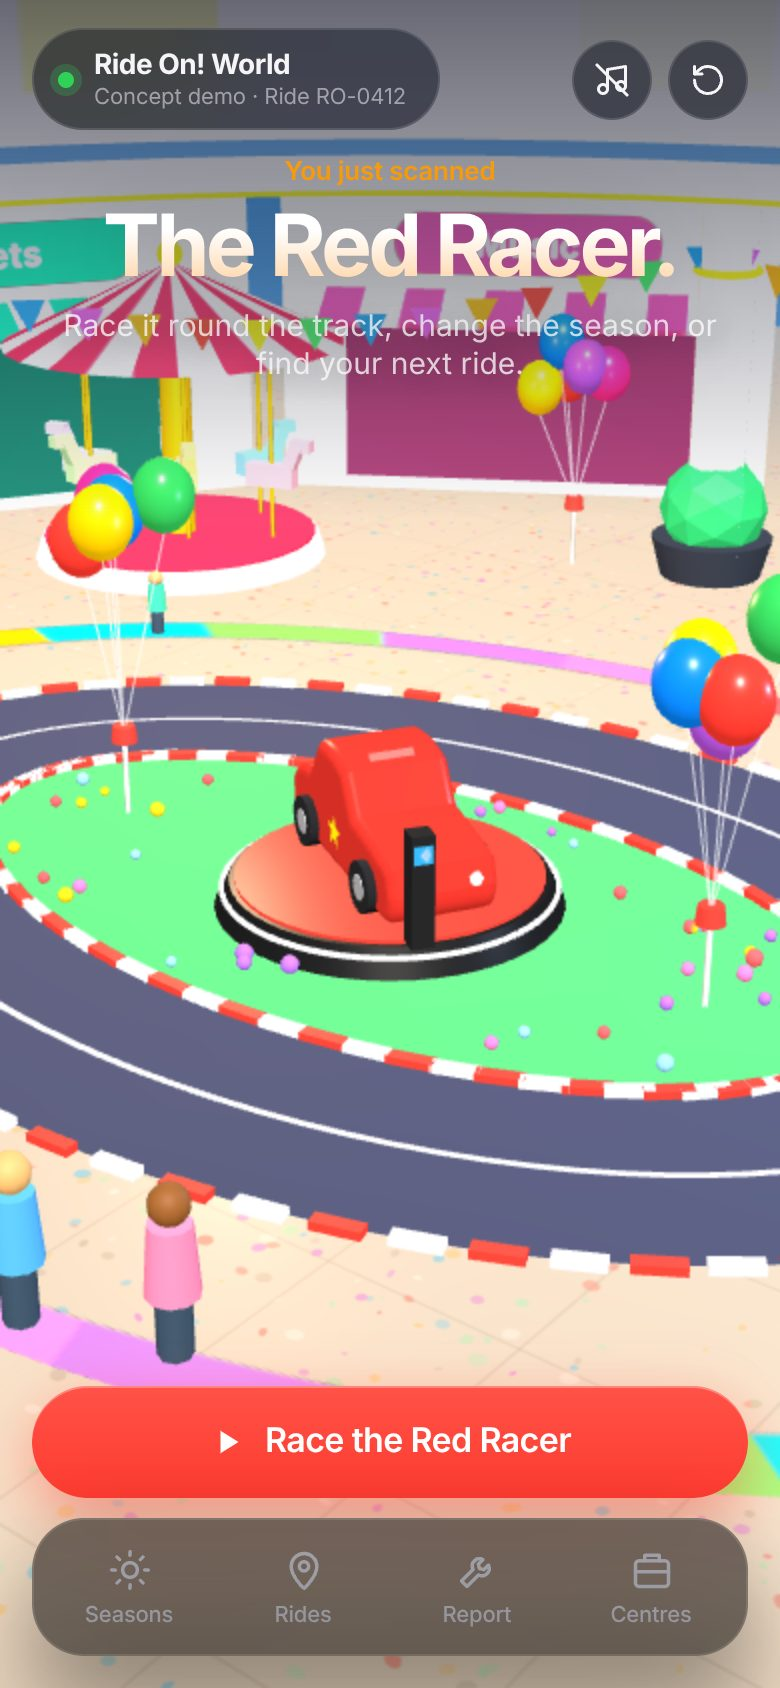
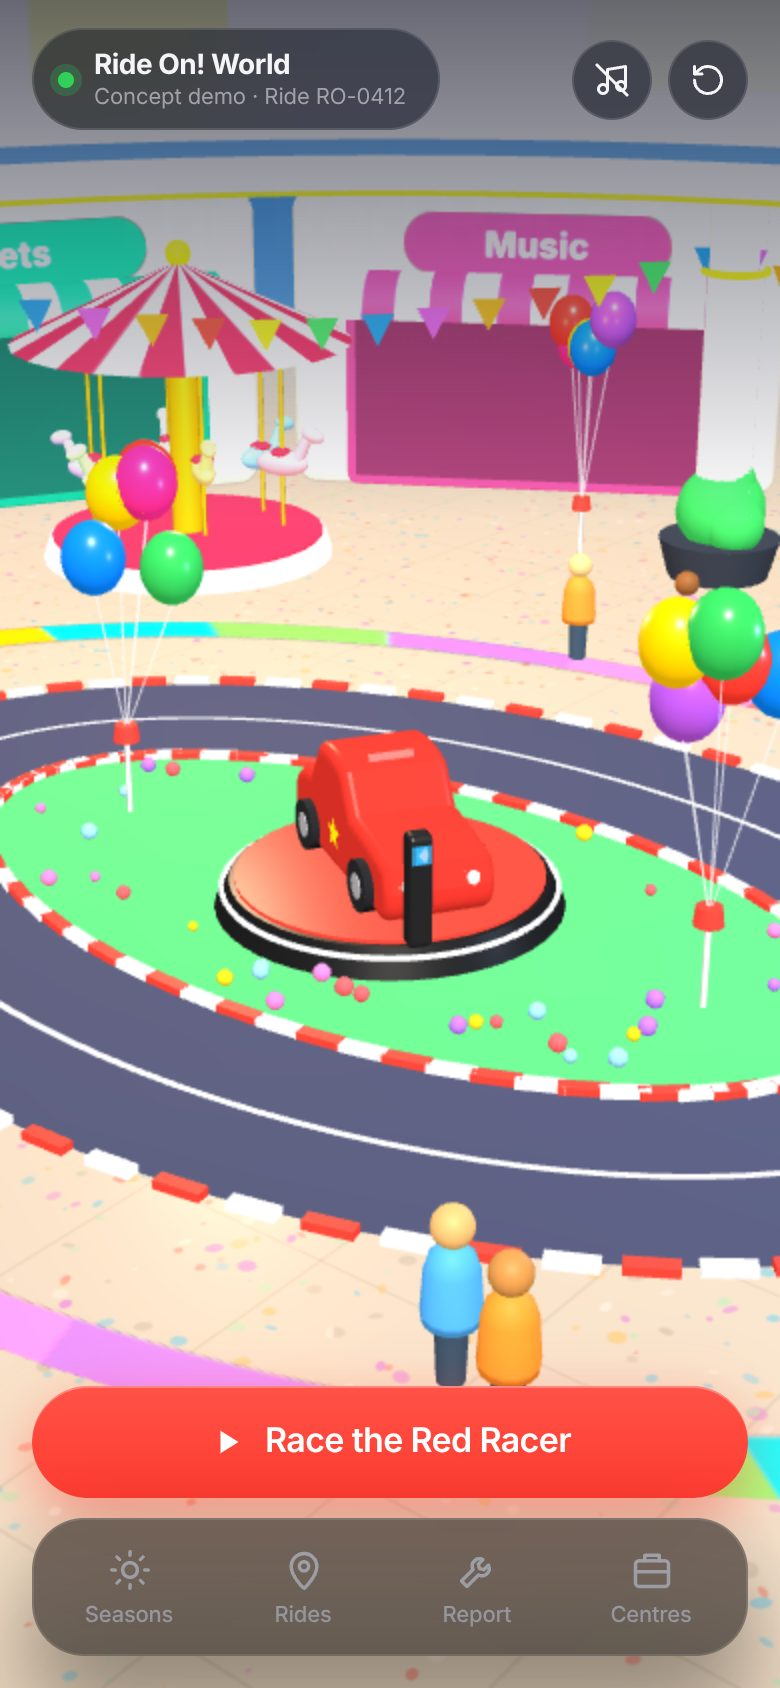
qrworlds: lighter hero animation, smoother RideWorld, Kiddy Cars link
- Home: the QR-to-blocks animation is one 2D canvas drawn only while on
  screen (about 1ms a frame), replacing hundreds of 3D CSS layers; the
  background glow no longer animates.
- RideWorld: rounded shop fronts with barrel awnings and coloured window
  frames, rounded horses with saddles, soft bush clumps (one draw call
  each), rounded shopper bodies, softer shadow edges.
- Rides tab links to Kiddy Cars.
- Refreshed page images.

Claude-Session: https://claude.ai/code/session_01Ev4X6DvmfBnPFg6znqd7o6

diff --git a/qrworlds/ride.html b/qrworlds/ride.html
@@ -141,6 +141,7 @@ button { font: inherit; color: inherit; border: 0; background: none; cursor: poi
 .intro.gone { opacity: 0; }
 .intro .msg { padding: 10px 18px; border-radius: 999px; font-size: 14px; font-weight: 600; }
 @media (prefers-reduced-motion: reduce) { * { transition-duration: 0.01ms !important; animation-duration: 0.01ms !important; } }
+a.row.kc { color: inherit; text-decoration: none; }
 </style>
 </head>
 <body>
@@ -232,7 +233,7 @@ const sun = new THREE.DirectionalLight(0xfff1dd, 1.25);
 sun.position.set(6, 12, 7); sun.castShadow = true;
 sun.shadow.mapSize.set(1024, 1024);
 Object.assign(sun.shadow.camera, { left: -12, right: 12, top: 12, bottom: -12, near: 1, far: 40 });
-sun.shadow.bias = -0.0004; scene.add(sun);
+sun.shadow.bias = -0.0004; sun.shadow.radius = 3; scene.add(sun);
 const warm = new THREE.PointLight(0xff9d5c, 0.9, 18); warm.position.set(-5, 4, -3); scene.add(warm);
 const cool = new THREE.PointLight(0x7aa8ff, 0.7, 18); cool.position.set(6, 3.5, -2); scene.add(cool);
 
@@ -376,7 +377,7 @@ const hero = makeCar(0xff3b30, 0xffffff, 1.25); hero.position.y = 0.32; ride.add
 // contactless post
 {
   const post = new THREE.Group();
-  const p = new THREE.Mesh(new THREE.BoxGeometry(0.22, 1.1, 0.22), mat(0x2c2c2e, { metalness: 0.5, roughness: 0.3 })); p.position.y = 0.55; p.castShadow = true; post.add(p);
+  const p = new THREE.Mesh(roundedBox(0.22, 1.1, 0.22, 0.07), mat(0x2c2c2e, { metalness: 0.5, roughness: 0.3 })); p.position.y = 0.55; p.castShadow = true; post.add(p);
   const c = document.createElement('canvas'); c.width = c.height = 128; const g = c.getContext('2d');
   g.fillStyle = '#0a84ff'; g.fillRect(0, 0, 128, 128); g.strokeStyle = '#fff'; g.lineWidth = 8; g.lineCap = 'round';
   for (let i = 0; i < 3; i++) { g.beginPath(); g.arc(44, 64, 18 + i * 18, -0.8, 0.8); g.stroke(); }
@@ -391,6 +392,16 @@ function signTexture(text, bg, fg) {
   g.fillStyle = bg; g.beginPath(); g.roundRect ? g.roundRect(8, 8, 496, 112, 56) : g.rect(8, 8, 496, 112); g.fill();
   g.fillStyle = fg; g.font = '800 64px -apple-system, Inter, sans-serif'; g.textAlign = 'center'; g.textBaseline = 'middle'; g.fillText(text, 256, 68);
   const t = new THREE.CanvasTexture(c); t.encoding = THREE.sRGBEncoding; return t;
+}
+// a box with softly rounded edges, so walls and posts read as toys rather than blocks
+function roundedBox(w, h, d, r) {
+  // the bevel grows the shape outwards, so draw it smaller to keep the outside at w x h x d
+  const b = Math.min(r, d / 2) * 0.6, bs = b * 0.9, sw = w - 2 * bs, shh = h - 2 * bs, rr = Math.max(0.001, Math.min(r - bs, sw / 2, shh / 2));
+  const sh = new THREE.Shape(), x = -sw / 2 + rr, y = -shh / 2 + rr, iw = sw - 2 * rr, ih = shh - 2 * rr;
+  sh.moveTo(x - rr, y); sh.absarc(x, y, rr, Math.PI, 1.5 * Math.PI); sh.lineTo(x + iw, y - rr); sh.absarc(x + iw, y, rr, 1.5 * Math.PI, 2 * Math.PI);
+  sh.lineTo(x + iw + rr, y + ih); sh.absarc(x + iw, y + ih, rr, 0, 0.5 * Math.PI); sh.lineTo(x, y + ih + rr); sh.absarc(x, y + ih, rr, 0.5 * Math.PI, Math.PI);
+  const geo = new THREE.ExtrudeGeometry(sh, { depth: d - 2 * b, bevelEnabled: true, bevelThickness: b, bevelSize: bs, bevelSegments: 3, curveSegments: 6 });
+  geo.translate(0, 0, -(d - 2 * b) / 2); return geo;
 }
 function stripeTexture(a, b, n = 8) {
   const c = document.createElement('canvas'); c.width = 256; c.height = 8; const g = c.getContext('2d');
@@ -412,15 +423,17 @@ const SHOP_R = 15.5;
 const shops = new THREE.Group(); world.add(shops);
 const SHOPS = [['Toy Town', '#ff9f0a'], ['Books', '#30d158'], ['Café', '#bf5af2'], ['Shoes', '#0a84ff'], ['Sweets', '#ff375f'], ['Games', '#5e5ce6'],
   ['Bakery', '#ff6b35'], ['Pets', '#00b894'], ['Music', '#e84393'], ['Sports', '#0984e3'], ['Gifts', '#fdcb6e'], ['Ice Cream', '#fd79a8']];
-const wallMat = mat(0xf3ebe0, { roughness: 0.7 });
+const wallMat = mat(0xf3ebe0, { roughness: 0.7 }), wallGeo = roundedBox(7.6, 4.6, 0.6, 0.35);
 SHOPS.forEach(([name, col], i) => {
   const a = (i / SHOPS.length) * Math.PI * 2;
   const g = new THREE.Group();
-  const wall = new THREE.Mesh(new THREE.BoxGeometry(7.6, 4.6, 0.6), wallMat); wall.position.y = 2.3; wall.receiveShadow = true; g.add(wall);
+  const wall = new THREE.Mesh(wallGeo, wallMat); wall.position.y = 2.3; wall.receiveShadow = true; g.add(wall);
   const win = new THREE.Mesh(new THREE.PlaneGeometry(5.6, 2.5), mat(0x1d2433, { emissive: new THREE.Color(col).convertSRGBToLinear().multiplyScalar(0.55), roughness: 0.15, metalness: 0.4 }));
-  win.position.set(0, 1.45, 0.31); g.add(win);
-  const awn = new THREE.Mesh(new THREE.BoxGeometry(6.2, 0.08, 1.1), new THREE.MeshStandardMaterial({ map: stripeTexture(col, '#ffffff', 10), roughness: 0.6 }));
-  awn.position.set(0, 2.95, 0.75); awn.rotation.x = 0.35; awn.castShadow = true; g.add(awn);
+  win.position.set(0, 1.45, 0.33); g.add(win);
+  const awnTex = stripeTexture(col, '#ffffff', 12); awnTex.center.set(0.5, 0.5); awnTex.rotation = Math.PI / 2;
+  const awn = new THREE.Mesh(new THREE.CylinderGeometry(0.62, 0.62, 6.2, 18, 1, true, 0, Math.PI), new THREE.MeshStandardMaterial({ map: awnTex, roughness: 0.6, side: THREE.DoubleSide }));
+  awn.rotation.z = Math.PI / 2; awn.scale.set(1, 1, 1.3); awn.position.set(0, 2.8, 0.3); awn.castShadow = true; g.add(awn);
+  const frame = new THREE.Mesh(roundedBox(5.9, 2.8, 0.08, 0.18), mat(col, { roughness: 0.4 })); frame.position.set(0, 1.45, 0.27); g.add(frame);
   const st = signTexture(name, col, '#ffffff');
   const sign = new THREE.Mesh(new THREE.PlaneGeometry(4.2, 1.05), new THREE.MeshStandardMaterial({ map: st, emissiveMap: st, emissive: 0xffffff, emissiveIntensity: 0.35, transparent: true }));
   sign.position.set(0, 3.85, 0.32); g.add(sign);
@@ -444,13 +457,19 @@ SHOPS.forEach(([name, col], i) => {
 }
 // pillars wrapped in lights
 const PILLAR_A = [0.4, 1.45, 2.35, 3.38, 4.45, 5.2];
+const bushGeo = new THREE.SphereGeometry(1, 18, 14), bushMat = mat(0x34c759, { roughness: 0.8 });
 const PILLARS = PILLAR_A.map((a) => [Math.cos(a) * 11.6, Math.sin(a) * 11.6]);
 PILLARS.forEach(([x, z], i) => {
   const g = new THREE.Group(); g.position.set(x, 0, z); world.add(occludes(g, PILLAR_A[i]));
   const p = new THREE.Mesh(new THREE.CylinderGeometry(0.38, 0.38, 5, 20), mat(0xffffff, { roughness: 0.3 })); p.position.y = 2.5; p.castShadow = true; g.add(p);
   const band = new THREE.Mesh(new THREE.TorusGeometry(0.42, 0.05, 8, 24), mat(0xffd60a, { emissive: 0xffb300, emissiveIntensity: 1 })); band.rotation.x = Math.PI / 2; band.position.y = 4.2; g.add(band);
   const pot = new THREE.Mesh(new THREE.CylinderGeometry(0.85, 0.7, 0.55, 20), mat(0x2f3542)); pot.position.y = 0.28; g.add(pot);
-  const bush = new THREE.Mesh(new THREE.IcosahedronGeometry(0.75, 1), mat(0x2ecc71, { flatShading: true })); bush.position.y = 0.95; g.add(bush);
+  // four soft blobs in one draw call
+  const bush = new THREE.InstancedMesh(bushGeo, bushMat, 4), bd = new THREE.Object3D();
+  [[0, 0.95, 0, 0.62], [0.32, 0.82, 0.18, 0.42], [-0.3, 0.84, -0.12, 0.44], [0.05, 1.3, -0.05, 0.4]].forEach(([bx, by, bz, br], k) => {
+    bd.position.set(bx, by, bz); bd.scale.setScalar(br); bd.updateMatrix(); bush.setMatrixAt(k, bd.matrix);
+  });
+  g.add(bush);
 });
 // bunting strung between neighbouring pillars
 {
@@ -482,11 +501,14 @@ const carousel = new THREE.Group(); carousel.position.set(-9.6, 0, -7.4); world.
   const fin = new THREE.Mesh(new THREE.SphereGeometry(0.18, 12, 8), mat(0xffd60a, { emissive: 0xffaa00, emissiveIntensity: 0.8 })); fin.position.y = 4.25; carousel.add(fin);
   const spin = new THREE.Group(); spin.position.y = 0.34; carousel.add(spin); carousel.userData.spin = spin; carousel.userData.horses = [];
   const hc = [0xffffff, 0x8ed1fc, 0xffb3c7, 0xffe08a, 0xc3f7b4, 0xd9c2ff];
+  const horseGeo = { ball: new THREE.SphereGeometry(1, 18, 12), neck: new THREE.CylinderGeometry(0.07, 0.1, 0.42, 12) };
   for (let i = 0; i < 6; i++) {
     const a = (i / 6) * Math.PI * 2, h = new THREE.Group();
-    const body = new THREE.Mesh(new THREE.BoxGeometry(0.7, 0.32, 0.24), mat(hc[i])); h.add(body);
-    const neck = new THREE.Mesh(new THREE.BoxGeometry(0.18, 0.42, 0.2), mat(hc[i])); neck.position.set(0.32, 0.25, 0); neck.rotation.z = -0.4; h.add(neck);
-    const head = new THREE.Mesh(new THREE.BoxGeometry(0.3, 0.16, 0.18), mat(hc[i])); head.position.set(0.46, 0.44, 0); h.add(head);
+    const hm = mat(hc[i], { roughness: 0.35 });
+    const body = new THREE.Mesh(horseGeo.ball, hm); body.scale.set(0.38, 0.18, 0.15); h.add(body);
+    const neck = new THREE.Mesh(horseGeo.neck, hm); neck.position.set(0.3, 0.22, 0); neck.rotation.z = -0.45; h.add(neck);
+    const head = new THREE.Mesh(horseGeo.ball, hm); head.scale.set(0.17, 0.1, 0.1); head.position.set(0.46, 0.42, 0); head.rotation.z = -0.3; h.add(head);
+    const saddle = new THREE.Mesh(horseGeo.ball, mat(0xff2d55, { roughness: 0.4 })); saddle.scale.set(0.14, 0.06, 0.16); saddle.position.set(-0.02, 0.16, 0); h.add(saddle);
     const rod = new THREE.Mesh(new THREE.CylinderGeometry(0.03, 0.03, 2.6, 6), mat(0xffd60a, { metalness: 0.5 })); rod.position.y = 0.4; h.add(rod);
     h.position.set(Math.cos(a) * 1.45, 1, Math.sin(a) * 1.45); h.rotation.y = -a; spin.add(h); carousel.userData.horses.push(h);
   }
@@ -543,13 +565,15 @@ const balloons = (() => {
 })();
 // shoppers strolling round the atrium
 // shoppers strolling round the atrium: three instanced meshes (legs, tops, heads) instead of 42 separate ones
+// a rounded jacket shape: wide at the hem, soft shoulders, narrow at the neck
+const torsoGeo = () => new THREE.LatheGeometry([[0, 0], [0.2, 0], [0.21, 0.08], [0.19, 0.4], [0.16, 0.5], [0.1, 0.56], [0.05, 0.58], [0, 0.58]].map(([x, y]) => new THREE.Vector2(x, y)), 14);
 const people = (() => {
   const N = 14, skin = [0xf1c27d, 0xe0ac69, 0x8d5524, 0xc68642, 0xffdbac];
   const tops = [0xff6b6b, 0x4dabf7, 0xffd43b, 0x69db7c, 0xda77f2, 0xff922b, 0x38d9a9, 0xf783ac];
   const parts = [
-    { mesh: new THREE.InstancedMesh(new THREE.CylinderGeometry(0.13, 0.13, 0.5, 8), mat(0xffffff), N), y: 0.25, col: () => 0x34495e },
-    { mesh: new THREE.InstancedMesh(new THREE.CylinderGeometry(0.16, 0.2, 0.55, 10), mat(0xffffff), N), y: 0.76, col: (i) => tops[i % tops.length] },
-    { mesh: new THREE.InstancedMesh(new THREE.SphereGeometry(0.15, 12, 10), mat(0xffffff), N), y: 1.18, col: (i) => skin[i % skin.length] },
+    { mesh: new THREE.InstancedMesh(new THREE.CylinderGeometry(0.12, 0.1, 0.5, 12), mat(0xffffff), N), y: 0.25, col: () => 0x34495e },
+    { mesh: new THREE.InstancedMesh(torsoGeo(), mat(0xffffff, { roughness: 0.6 }), N), y: 0.48, col: (i) => tops[i % tops.length] },
+    { mesh: new THREE.InstancedMesh(new THREE.SphereGeometry(0.15, 16, 12), mat(0xffffff, { roughness: 0.5 }), N), y: 1.2, col: (i) => skin[i % skin.length] },
   ];
   parts.forEach((p) => { for (let i = 0; i < N; i++) p.mesh.setColorAt(i, new THREE.Color(p.col(i)).convertSRGBToLinear()); world.add(p.mesh); });
   parts[1].mesh.castShadow = true;
@@ -876,6 +900,7 @@ const panels = {
         <path d="M30 100 H310 M170 30 V160" stroke="currentColor" stroke-opacity=".12" stroke-width="18" stroke-linecap="round"/>
         ${pins.map(([x, y, c, l]) => `<circle cx="${x}" cy="${y}" r="9" fill="${c}"/><circle cx="${x}" cy="${y}" r="15" fill="${c}" opacity=".25"/>${l ? `<text x="${x}" y="${y - 20}" text-anchor="middle" font-size="12" font-weight="700" fill="currentColor">${l}</text>` : ''}`).join('')}
       </svg>
+      <a class="row kc" href="https://www.kiddycars.com/" target="_blank" rel="noopener"><div class="sw" style="background:#ff9f0a">🚗</div><div><b>Rent a Kiddy Car</b><small>Push-along cars while you shop</small></div><div class="end">Rent</div></a>
       <div class="row"><div class="sw" style="background:#ffcc00">🎠</div><div><b>Carousel</b><small>Level 1, by the fountain</small></div><div class="end">2 min</div></div>
       <div class="row"><div class="sw" style="background:#30d158">🚂</div><div><b>Choo-choo train</b><small>Level 2, food court</small></div><div class="end">4 min</div></div>
       <div class="row"><div class="sw" style="background:#0a84ff">🚁</div><div><b>Helicopter ride</b><small>Level 0, by the lifts</small></div><div class="end">3 min</div></div>

diff --git a/qrworlds/site.js b/qrworlds/site.js
@@ -2,26 +2,67 @@
 const io = new IntersectionObserver((es) => es.forEach((e) => e.isIntersecting && (e.target.classList.add('in'), io.unobserve(e.target))), { threshold: 0.12 });
 document.querySelectorAll('.rv').forEach((el) => io.observe(el));
 
-// Hero: a real QR code for this site whose squares lift into a little 3D world and fold back down
-const stage = document.getElementById('qr3d');
-if (stage && window.qrcode) {
+// Hero: a real QR code for this site whose squares lift into little 3D blocks and settle back.
+// Drawn on one 2D canvas, only while it is on screen, so it costs almost nothing.
+const qc = document.getElementById('qrc');
+if (qc && window.qrcode) {
   const q = qrcode(0, 'M'); q.addData('HTTPS://WWW.QRWORLDS.CO.UK', 'Alphanumeric'); q.make();
-  const n = q.getModuleCount(), pad = 2, cell = 100 / (n + pad * 2);
+  const n = q.getModuleCount(), pad = 2, N = n + pad * 2;
   const cols = ['#ff3b30', '#ffd60a', '#34c759', '#0a84ff', '#ff9f0a', '#bf5af2', '#ff2d92'];
-  const frag = document.createDocumentFragment();
+  const shade = (hex, k) => { const v = parseInt(hex.slice(1), 16); return `rgb(${((v >> 16) & 255) * k | 0},${((v >> 8) & 255) * k | 0},${(v & 255) * k | 0})`; };
+  const blocks = [];
   for (let r = 0; r < n; r++) for (let c = 0; c < n; c++) {
     if (!q.isDark(r, c)) continue;
-    const i = document.createElement('i');
-    const d = Math.hypot(r - n / 2, c - n / 2) / (n / 2);
-    i.style.cssText = `left:${(c + pad) * cell}%;top:${(r + pad) * cell}%;width:${cell}%;height:${cell}%;` +
-      `--z:${Math.round(8 + (1 - d) * 46 + Math.random() * 18)}px;--c:${cols[(r * 7 + c * 3) % cols.length]};transition-delay:${(d * 0.5).toFixed(2)}s`;
-    frag.appendChild(i);
+    const d = Math.hypot(r - n / 2 + 0.5, c - n / 2 + 0.5) / (n / 2);
+    const col = cols[(r * 7 + c * 3) % cols.length];
+    blocks.push({ x: c + pad - N / 2, y: r + pad - N / 2, h: 0.35 + (1 - d) * 2.2 + Math.random() * 0.9, delay: d * 0.35, top: col, s1: shade(col, 0.72), s2: shade(col, 0.52) });
   }
-  stage.appendChild(frag);
-  const cap = document.getElementById('qrcap');
-  let up = false;
-  const flip = () => { up = !up; stage.classList.toggle('up', up); if (cap) cap.textContent = up ? 'Unfolded into a world' : 'A normal QR code'; };
-  if (!matchMedia('(prefers-reduced-motion: reduce)').matches) { setTimeout(flip, 900); setInterval(flip, 3600); }
+  const g = qc.getContext('2d'), cap = document.getElementById('qrcap');
+  let W = 0, scale = 1;
+  const size = () => { const dpr = Math.min(devicePixelRatio || 1, 2); W = qc.clientWidth * dpr; qc.width = qc.height = W; scale = W / (N * 1.25); };
+  size(); addEventListener('resize', size);
+  const ease = (x) => (x = Math.min(Math.max(x, 0), 1), x * x * (3 - 2 * x));
+  const back = (x) => { x = Math.min(Math.max(x, 0), 1); const c1 = 1.5; return 1 + (c1 + 1) * Math.pow(x - 1, 3) + c1 * Math.pow(x - 1, 2); };
+  const LOOP = 7.2; // flat 1.2s, rise 1.6s, hold 2.2s, settle 1.4s, flat 0.8s
+  function draw(t) {
+    const k = t % LOOP;
+    const p = k < 1.2 ? 0 : k < 2.8 ? ease((k - 1.2) / 1.6) : k < 5 ? 1 : k < 6.4 ? 1 - ease((k - 5) / 1.4) : 0;
+    const rising = k < 5;
+    const th = -0.63 * p, ph = 0.95 * p, ct = Math.cos(th), st = Math.sin(th), cp = Math.cos(ph), sp = Math.sin(ph);
+    const zs = 0.9 * p; // block height scale grows with the tilt
+    const proj = (x, y, z) => { const rx = x * ct - y * st, ry = x * st + y * ct; return [W / 2 + rx * scale, W / 2 + (ry * cp - z * sp) * scale + p * W * 0.06]; };
+    g.clearRect(0, 0, W, W);
+    // the white card
+    const h0 = N / 2;
+    const card = (dy, grow) => { g.beginPath(); [[-h0, -h0], [h0, -h0], [h0, h0], [-h0, h0]].forEach(([x, y], i) => { const [a, b] = proj(x * grow, y * grow, 0); i ? g.lineTo(a, b + dy) : g.moveTo(a, b + dy); }); g.closePath(); };
+    // soft shadow from two offset fills (canvas blur is slow on phones), then the card and its edge
+    g.fillStyle = 'rgba(0,0,0,0.18)'; card(W * 0.035, 1.04); g.fill(); card(W * 0.02, 1.01); g.fill();
+    g.fillStyle = '#d9d9e3'; card(W * 0.012 * p, 1); g.fill();
+    g.fillStyle = '#fff'; card(0, 1); g.fill();
+    // side faces that point at the viewer, from the four outward normals
+    const sides = [[0, 1, 0, 1, 1, 1], [1, 0, 1, 0, 1, 1], [0, -1, 0, 0, 1, 0], [-1, 0, 0, 0, 0, 1]].filter(([nx, ny]) => nx * st + ny * ct > 0.001);
+    const depth = (b) => (b.x + 0.5) * st + (b.y + 0.5) * ct;
+    blocks.sort((a, b) => depth(a) - depth(b));
+    for (const b of blocks) {
+      const lift = rising ? back((p * 1.25) - b.delay) : p;
+      const z = Math.max(0, b.h * zs * lift);
+      const c = (x, y, zz) => proj(b.x + x, b.y + y, zz);
+      const quad = (pts, fill) => { g.beginPath(); pts.forEach(([a, bb], i) => (i ? g.lineTo(a, bb) : g.moveTo(a, bb))); g.closePath(); g.fillStyle = fill; g.fill(); };
+      if (z > 0.01) for (const [nx, ny, x1, y1, x2, y2] of sides) {
+        quad([c(x1, y1, 0), c(x2, y2, 0), c(x2, y2, z), c(x1, y1, z)], nx ? b.s2 : b.s1);
+      }
+      const mix = Math.min(1, p * 1.6);
+      quad([c(0, 0, z), c(1, 0, z), c(1, 1, z), c(0, 1, z)], mix < 0.5 ? '#12101f' : b.top);
+      if (mix > 0 && mix < 0.5) { g.globalAlpha = mix * 2; quad([c(0, 0, z), c(1, 0, z), c(1, 1, z), c(0, 1, z)], b.top); g.globalAlpha = 1; }
+    }
+    if (cap) { const txt = p > 0.5 ? 'Unfolded into a world' : 'A normal QR code'; if (cap.textContent !== txt) cap.textContent = txt; }
+  }
+  let on = false, raf = 0, t0 = performance.now();
+  const loop = (now) => { draw((now - t0) / 1000); raf = on ? requestAnimationFrame(loop) : 0; };
+  const still = matchMedia('(prefers-reduced-motion: reduce)').matches;
+  draw(still ? 0 : 0.01);
+  if (!still) new IntersectionObserver(([e]) => { on = e.isIntersecting && !document.hidden; if (on && !raf) raf = requestAnimationFrame(loop); }).observe(qc);
+  document.addEventListener('visibilitychange', () => { on = !document.hidden && qc.getBoundingClientRect().bottom > 0; if (on && !raf) raf = requestAnimationFrame(loop); });
 }
 
 // Product pages: the live demo runs inside the phone on wide screens; on phones it opens full screen

diff --git a/qrworlds/site.css b/qrworlds/site.css
@@ -29,8 +29,7 @@ img { display: block; max-width: 100%; }
     radial-gradient(40vw 40vw at 15% 10%, rgba(255, 59, 48, 0.16), transparent 70%),
     radial-gradient(45vw 45vw at 90% 20%, rgba(90, 92, 240, 0.18), transparent 70%),
     radial-gradient(50vw 40vw at 50% 100%, rgba(224, 122, 79, 0.12), transparent 70%);
-  animation: drift 24s ease-in-out infinite alternate; }
-@keyframes drift { to { transform: translate3d(3vw, -2vh, 0) scale(1.05); } }
+}
 
 /* nav */
 .nav { position: sticky; top: 0; z-index: 20; padding: 12px 0; background: rgba(7, 8, 13, 0.6); -webkit-backdrop-filter: saturate(180%) blur(20px); backdrop-filter: saturate(180%) blur(20px); border-bottom: 0.5px solid var(--stroke); }
@@ -57,19 +56,10 @@ h1 .grad { background: linear-gradient(100deg, #fff 10%, var(--gold) 45%, var(--
 .lede { margin: 18px 0 0; font-size: clamp(17px, 2vw, 20px); color: #c7c7d1; max-width: 520px; text-wrap: pretty; }
 .cta { display: flex; gap: 10px; flex-wrap: wrap; margin-top: 28px; }
 
-/* the unfolding QR in the hero */
-.qrstage { position: relative; aspect-ratio: 1; perspective: 1400px; display: grid; place-items: center; }
-.qrstage::after { content: ""; position: absolute; inset: 12%; border-radius: 50%; background: radial-gradient(closest-side, rgba(255, 214, 10, 0.18), transparent); filter: blur(10px); z-index: -1; }
-.qr3d { width: 78%; aspect-ratio: 1; position: relative; transform-style: preserve-3d; transition: transform 1.6s var(--ease); transform: rotateX(0) rotateZ(0); background: #fff; border-radius: 14px; box-shadow: 0 30px 80px rgba(0, 0, 0, 0.5); }
-.qr3d.up { transform: rotateX(54deg) rotateZ(-36deg) scale(0.9); background: rgba(255, 255, 255, 0.92); }
-.qr3d i { position: absolute; background: #12101f; transform-style: preserve-3d; transition: transform 1.1s var(--spring), background 0.8s; }
-.qr3d.up i { transform: translateZ(var(--z)); background: var(--c); }
-/* side walls so each square becomes a little block when it lifts */
-.qr3d i::before, .qr3d i::after { content: ""; position: absolute; background: inherit; transition: transform 1.1s var(--spring); transition-delay: inherit; }
-.qr3d i::before { left: 0; top: 100%; width: 100%; height: var(--z); transform-origin: top; transform: rotateX(-90deg) scaleY(0); background-image: linear-gradient(rgba(0, 0, 0, 0.28), rgba(0, 0, 0, 0.28)); }
-.qr3d i::after { left: 100%; top: 0; width: var(--z); height: 100%; transform-origin: left; transform: rotateY(90deg) scaleX(0); background-image: linear-gradient(rgba(0, 0, 0, 0.45), rgba(0, 0, 0, 0.45)); }
-.qr3d.up i::before { transform: rotateX(-90deg) scaleY(1); }
-.qr3d.up i::after { transform: rotateY(90deg) scaleX(1); }
+/* the unfolding QR in the hero: one canvas, drawn only while on screen */
+.qrstage { position: relative; aspect-ratio: 1; display: grid; place-items: center; }
+.qrstage::after { content: ""; position: absolute; inset: 12%; border-radius: 50%; background: radial-gradient(closest-side, rgba(255, 214, 10, 0.16), transparent); z-index: -1; }
+#qrc { width: 100%; height: 100%; display: block; }
 .qrcap { position: absolute; bottom: 2%; left: 0; right: 0; text-align: center; font-size: 13px; color: var(--muted); font-weight: 600; }
 
 /* sections */
@@ -143,4 +133,4 @@ footer .wrap { display: flex; justify-content: space-between; gap: 16px; flex-wr
   .pilot { padding: 28px 20px; }
 }
 @media (max-width: 420px) { .logo span { display: none; } }
-@media (prefers-reduced-motion: reduce) { .aura { animation: none; } .rv { opacity: 1; transform: none; } }
+@media (prefers-reduced-motion: reduce) { .rv { opacity: 1; transform: none; } }

diff --git a/qrworlds/index.html b/qrworlds/index.html
@@ -29,7 +29,7 @@
     <p class="lede">Every code opens a little 3D world built for your venue, right in the phone's browser. No app to download. Then it gets out of the way and does the job: a game, a menu, a fault report.</p>
     <div class="cta"><a class="btn ride" href="/rideworld">See RideWorld</a><a class="btn table" href="/tableworld">See TableWorld</a></div>
   </div>
-  <div class="qrstage"><div class="qr3d" id="qr3d"></div><div class="qrcap" id="qrcap">A normal QR code</div></div>
+  <div class="qrstage"><canvas id="qrc" aria-label="A QR code lifting into 3D blocks"></canvas><div class="qrcap" id="qrcap">A normal QR code</div></div>
 </section>
 
 <section class="block">
